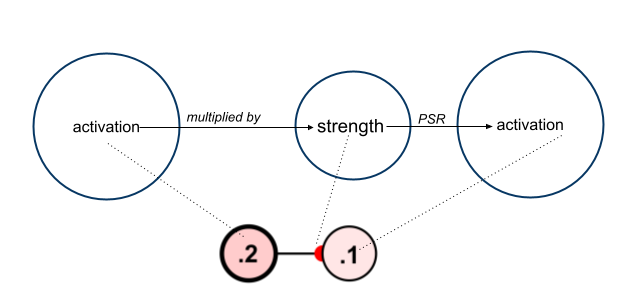
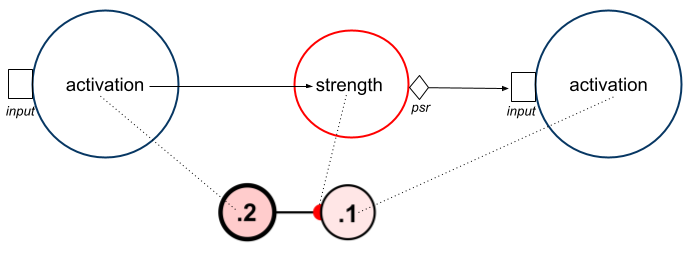
A pass on network update logic with feedback from Yulin and Sergio.
Making a new section to bring the intuitive stuff up front and improving the images and framing.

diff --git a/src/docs/network/updateLogic.md b/src/docs/network/updateLogic.md
@@ -1,20 +1,39 @@
 ---
-title: Update Logic
+title: Network Update
 layout: default
 parent: Networks
 has_children: false
-nav_order: 15
+nav_order: 2
 ---
 
-# Network Update Logic
+# How Network Updates Work
 
-When a network is open and the workspace is iterated, an **update algorithm** is repeatedly called, which is visible in the form of spreading activity in network's nodes and other changes. These changes have a complex logic that is described here. 
+When a network is open and the workspace is iterated, an **update algorithm** is repeatedly called, which is visible in the form of spreading activity in network's nodes and other changes. These changes have a complex logic that is described here.  This complexity stems from Simbrain's effort to support many configurations. This includes networks which mix free neurons and synapses, local learning rules, array-based computations, spiking networks, and more custom forms of update. 
 
-The complexity of the system stems from Simbrain's effort to support many configurations. This includes free neurons and synapses, local learning rules, array based computations, spiking networks, and even more custom forms of update. Most of this is supported in the GUI using a point and click interface.
+The next section gives a broad overview of update focusing on the case of free neurons and synapses. The rest of this document covers more specific topics and forms of update.
 
+# The Basic Idea
+
+The way information flows from one node to another via a weight provides a useful starting point for understanding how network updates work in Simbrain. In the simplest and easiest-to-understand case, activation in one node is multiplied by a weight strength, and the result is sent to the next node where it becomes the new activation. In the example below assume the weight strength is .5, so that the output is half the input.
+
+<img src="/assets/images/synapseRulesBasic.png" alt="synapse basics" style="width:600px;"/>
+
+There are several variables that play an important role in this process (especially when we consider more complicated cases), but that are not directly visible in Simbrain
+
+- **PSR**: (shown as a diamond above). This is the "output" of a synapse. Usually it is just source activation times weight. In the example above it is $$.1$$. However, sometimes the PSR varies over time in response to spikes.
+
+- **Input** (shown as open rectangles above). This is a kind of input buffer that accumulates inputs from other nodes (via PSRs) and via external [couplings](/docs/workspace/Couplings.html). This supports asynchronous or [buffered update](#buffered-update).
+
+<img src="/assets/images/multipleSynapses.png" alt="summation" style="width:600px;"/>
+
+When multiple source nodes connect to a target node, the input to the target node is a summation of PSRs across the source nodes. In the example above, the target node accumulates PSRs from three other nodes. Since in this case there are no spike responders, the target input is a simple weighted sum. In this image we have also shown dotted lines feeding into each input, which emphasizes that information from external couplings can be part of the input to any neuron.
+
+All of these values can exist as arrays: activations, inputs, weight strengths, PSRs, etc. Generally speaking these are forms of **data**. In general we try to separate data structures from **rules** that act on these data structures, like update rules, learning rules, and spike responders.
+
+For the rest of these docs we move systematically through how network updates work, starting with the high-level structure of how "actions" are executed and then considering all the types of action and all the types of model that can be updated. 
 # Update actions
 
-At the top level each network iteration a sequence of actions is executed. Usually the default update action, `Buffered update`, is all that is executed, and all that is needed. However, custom actions can be added and update can be customized, either in the GUI, or for even more custom applications, in [scripts](../simulations).
+At each network iteration a sequence of actions is executed. Usually only one action is updated, the default update action, `Buffered update`. However, custom actions can be added and update can be customized, either in the GUI, or for even more custom applications, in [scripts](../simulations).
 
 Actions are set using a GUI that is largely the same as in [workspace update](../workspace/update.html). 
 
@@ -109,19 +128,8 @@ The same rules that operate on scalar data can operate on array data. All the pa
 
 # Synapses, Learning Rules, and Spike Responders
 
-Each synapse has a post synaptic response or PSR. The PSR is typically just source activation times weight. However, when spike responders are used, the PSR can be more complicated. The PSRs to an output node are summed and that is the "input" to update rule or "activation function" for a node (See book activation function chapter)
+Each synapse outputs a a post synaptic response or PSR. This is typically just source activation times weight. However, when spike responders are used, the PSR must react in a dynamical way to spiking events. Also, the synaptic strength can be updated via learning. To accomodate all this, the following structures are used:
 
-<!-- Synaptic inputs are a bit more complicated than weighted inputs as they attempt to capture some of the dynamics of real synapses in the brain. This type of input is meant specifically for translating action potentials (spikes) created when spiking neurons fire into a continuous value which can be interpreted by other neurons. (So this input type is not meaningful if the pre-synaptic neuron does not produce action potentials). Synaptic inputs perform a weighted sum over the post-synaptic responses of the incoming synapses, which are themselves governed by **spike responders**. More details can be found in the **spike responder** and **spiking neuron** documentation pages. The basic idea is that spikes are modeled as being instantaneous in time and spike responders generate a continuous value from this instantaneous one, for example producing a decaying stream of input to the post-synaptic neuron after a spike (as in the animated image above). -->
-
-
-Here is the basic case for how synapses work
-
-To accomodate all this, the following structure is used:
-<img src="/assets/images/synapseRulesBasic.png" alt="synapse basics" style="width:600px;"/>
-
-But it gets more complex. The same basic structure from aboe is used for synapses, but there is a bit more going on. This is based on the fact that synapse learn with learning rules, but also sometimes must react in a dynamical way to spiking events. However, in the default case all they are is weights that are multipled by pre-synaptic neuron activations.
-
-To accomodate all this, the following structure is used:
 <img src="/assets/images/synapseRulesFull.png" alt="synapse spike responder and learning rule" style="width:600px;"/>
 
 The synapse has two main intrinsic state variables: `psr` or post-synaptic-response, and `strength`. The strength is the classic weight value of a synapse. The `psr` is a variable that corresponds to the "output" of the synapse. In the basic case, the `psr` is just the source neuron activation for the synapse times the weight strength. In the case shown, if the weight strength is .5, then the psr is .2 * .5, and so on update the target synapse is set to .1. Often in a neural network this is all we have.
@@ -151,9 +159,7 @@ fun Neuron.update()
 		activation += synapse.psr
 ```
 
-Again PSR is our generic construct. The node’s net input is just the accumulated psr. That is then modified by act function. TODO: Show activation function working.
-
-<img src="/assets/images/multipleSynapses.png" alt="summation" style="width:300px;"/>
+<!-- Synaptic inputs are a bit more complicated than weighted inputs as they attempt to capture some of the dynamics of real synapses in the brain. This type of input is meant specifically for translating action potentials (spikes) created when spiking neurons fire into a continuous value which can be interpreted by other neurons. (So this input type is not meaningful if the pre-synaptic neuron does not produce action potentials). Synaptic inputs perform a weighted sum over the post-synaptic responses of the incoming synapses, which are themselves governed by **spike responders**. More details can be found in the **spike responder** and **spiking neuron** documentation pages. The basic idea is that spikes are modeled as being instantaneous in time and spike responders generate a continuous value from this instantaneous one, for example producing a decaying stream of input to the post-synaptic neuron after a spike (as in the animated image above). -->
 
 # Synapses, Learning Rules, and Spike Responders (array case)
 
@@ -163,7 +169,7 @@ The  same structure applies to [neuron arrays and weight matrices](arraysMatrice
 
 Thus, for a neuron array,  `update()` iterates through a fan-in of weight matrices, calling `updatePSR()` on each one, and then adding the resulting `psrMatrices` using vector addition to update the neuron's activations. This allows connectionist and spiking input arrays to feed to the same neuron array.
 
-Again we sum PSR's but now we are “summing PSR matrices” and then mutating them.
+Before we summed PSRs but now we are “summing PSR matrices” and then mutating them.
 
 
 # Continuous and Discrete Time Update
@@ -172,9 +178,9 @@ The network is updated from the [workspace](../workspace) or separately using it
 
 When the network is updated, a `time` variable is updated by adding a `time-step` to it. This updating time can be displayed in two ways, captured by a `time-type` parameter
 
-- Continuous: at each iteration time increases by a `time step` that can be set. Time is displayed in milliseconds. This is used when differential equations are numerically integrated. Generally speaking, the smaller the time-step, the more accurate the numerical integration. 
+- **Continuous**: at each iteration time increases by a `time step` that can be set. Time is displayed in milliseconds. This is used when differential equations are numerically integrated. Generally speaking, the smaller the time-step, the more accurate the numerical integration. 
 
-- Discrete: at each iteration time increases by 1. Time is displayed as “iterations” (in the underlying code the system is still updated by a time-step; but in this mode time is displayed by dividing the continuous time by the time-step.)
+- **Discrete**: at each iteration time increases by 1. Time is displayed as “iterations” (in the underlying code the system is still updated by a time-step; but in this mode time is displayed by dividing the continuous time by the time-step.)
 
 Neuron update rules are associated with a time type. Any time a single continuous update rule is used in a network, time is automatically changed to continuous. This can however be overridden by manually adjusting time type in the network properties.
 

diff --git a/src/docs/network/buildingBasics.md b/src/docs/network/buildingBasics.md
@@ -14,34 +14,33 @@ This page gives intuitions about the Simbrain interface. More details on the und
 
 Basic editing is straightforward, and most actions are meant to be intuitive relative to any standard draw program which involves selecting, copying, and editing with double clicks etc. For the most part you simply left click and drag the selected items (more on selection below). Network models can be lasso selected and the selection edited using the shift key to toggle selection.
 
-- Nudging: For fine tuning a selection, users can also use the arrow keys (with Shift held down) to "nudge" selected items. The nudge amount in pixels can be set in the network preferences dialog.
+- **Nudging**: For fine tuning a selection, users can also use the arrow keys (with Shift held down) to "nudge" selected items. The nudge amount in pixels can be set in the network preferences dialog.
 
-- Zooming: To zoom use the mouse-wheel or the pinch-to-zoom gesture on trackpads, or the toolbar buttons, which include zoom to fit (fit everything on the page automatically) or reset, which places the zoom level at 1:1. Auto-zoom mode makes things always zoom to fit.
+- **Zooming**: To zoom use the mouse-wheel or the pinch-to-zoom gesture on trackpads, or the toolbar buttons, which include zoom to fit (fit everything on the page automatically) or reset, which places the zoom level at 1:1. Auto-zoom mode makes things always zoom to fit.
 
-- Panning: To pan press the command /ctrl key while left-clicking and dragging. Note that by default auto-zoom is turned on; if you plan to zoom in and pan a lot it should be turned off by dclicking on the auto-zoom icon. 
+- **Panning**: To pan press the command /ctrl key while left-clicking and dragging. Note that by default auto-zoom is turned on; if you plan to zoom in and pan a lot it should be turned off by dclicking on the auto-zoom icon. 
 
 # Graphical and Color Conventions
 
 Most graphical and color conventions can be customized using the [preference dialog](preferences). Neuron, synapse, neuron array, and other color conventions are discussed on the doc pages for those objects.
 
-
 # Creating Objects
 
 Primarily nodes are discussed here, but similar ideas apply for text objects, neuron groups, and other Simbrain objects. 
 
-- Creating a node: Nodes are created by pressing "P" or by pressing the new node button  in the toolbar. Any new nodes will be created at the last position clicked on-screen.
+- **Creating a node**: Nodes are created by pressing "P" or by pressing the new node button  in the toolbar. Any new nodes will be created at the last position clicked on-screen.
 
-- Creating a line of nodes: Repeatedly pressing "P" or the new node button results in a line of nodes being created beginning at the last clicked position.
+- **Creating a line of nodes**: Repeatedly pressing "P" or the new node button results in a line of nodes being created beginning at the last clicked position.
  
-- Creating specific types of neurons: By default, new nodes are linear. The default node type cannot currently be changed, though this is planned. To create a node of a specific type, simply create a new node, double click or right click the node and edit (or click command-E). From there one can select any neuron type in Simbrain from a dropdown menu. The same thing can be done for groups of nodes: select them all and double clcik on one
+- **Creating specific types of neurons**: By default, new nodes are linear. The default node type cannot currently be changed, though this is planned. To create a node of a specific type, simply create a new node, double click or right click the node and edit (or click command-E). From there one can select any neuron type in Simbrain from a dropdown menu. The same thing can be done for groups of nodes**: select them all and double clcik on one
  
-- Add neurons dialog: To create many nodes at once one can go to `Insert > Add Neurons` and instantly create an arbitrary number of neurons specified in the `Add Neurons` window. You can determine what type of neurons will be created (this part of the dialog is the same as the neuron dialog) and how they will be layed out (see layouts). There is also a checkbox which will make these neurons be created as a group.
+- **Add neurons dialog**: To create many nodes at once one can go to `Insert > Add Neurons` and instantly create an arbitrary number of neurons specified in the `Add Neurons` window. You can determine what type of neurons will be created (this part of the dialog is the same as the neuron dialog) and how they will be layed out (see layouts). There is also a checkbox which will make these neurons be created as a group.
  
-- Copy / Paste / Duplicate: Create a node, set its type (as specified above), and then copy and paste or duplicate (command-D) repeatedly.
+- **Copy / Paste / Duplicate**: Create a node, set its type (as specified above), and then copy and paste or duplicate (command-D) repeatedly.
  
-- Creating subnetworks or groups of nodes: Subnets are created using *Insert > Add Network*. Subnetworks and small groups of neurons can be created, copied, and repeatedly pasted to quickly create many sets of similar elements. Neuron groups can be created using the G command; existing free neurons can be added to a network with Shift-G.
+- **Creating subnetworks or groups of nodes**: Subnets are created using *Insert > Add Network*. Subnetworks and small groups of neurons can be created, copied, and repeatedly pasted to quickly create many sets of similar elements. Neuron groups can be created using the G command; existing free neurons can be added to a network with Shift-G.
  
-- Creating synapses or synapse groups: See the connections documentation.
+- **Creating synapses or synapse groups**: See the connections documentation.
 
 # Selecting Objects
 
@@ -49,15 +48,15 @@ Neurons, weights, groups, and textboxes can be selected so that operations can b
 
 Note that most selection operations must be done in selection mode, the default mode, which is entered by pressing "S" or the selection button.
 
-- Lasso: Left-click and drag the lasso around screen items you want to select. As items are selected a box appears around them.
+- **Lasso**: Left-click and drag the lasso around screen items you want to select. As items are selected a box appears around them.
 
-- Lassoing weights: It can be hard to click on individual weights directly, so they can also be selected by dragging the lasso across the line associated with a weight, which is much easier.
+- **Lassoing weights**: It can be hard to click on individual weights directly, so they can also be selected by dragging the lasso across the line associated with a weight, which is much easier.
 
-- Single click: Single left-click on nodes and weights to select individual screen items. Zooming in on items can facilitate this.
+- **Single click**: Single left-click on nodes and weights to select individual screen items. Zooming in on items can facilitate this.
 
-- Shift key : Once some items are selected, you can hold down the shift key to add more items to your selection. Hold down Shift while lassoing to add or remove groups items; hold down Shift while single-clicking to add or remove single items.
+- **Shift key**: Once some items are selected, you can hold down the shift key to add more items to your selection. Hold down Shift while lassoing to add or remove groups items; hold down Shift while single-clicking to add or remove single items.
 
-- Key Shortcuts : "n" to select all nodes; "w" to select all weights; "a" to select nodes and weights. These are super useful! (Also, once selected: "r" to randomize, "c" to clear, and arrows to increment activation.)
+- **Key Shortcuts**: "n" to select all nodes; "w" to select all weights; "a" to select nodes and weights. These are super useful! (Also, once selected: "r" to randomize, "c" to clear, and arrows to increment activation.)
 
 # Source and Target Objects
 

diff --git a/src/docs/network/index.md b/src/docs/network/index.md
@@ -9,7 +9,7 @@ nav_order: 15
 
 The network component of Simbrain represents a simulated neural circuit. For a quick dive in see the [quick start](../quickstart.html) or [this video](https://www.youtube.com/watch?v=dvJvY1zVQUE), which contains a series of links to short clips describing common network operations (adding neurons, connecting neurons, editing neuron groups, etc.). 
 
-Networks contain a variety of objects (we call them "network models"), including free-floating neurons and synapses, but also neuron arrays and weight matrices for array-based network, and a wide array of other more complex structures. This page contains a brief overview of the main object types. The Simbrain philosophy is to allow for arbitrary combinations of models. Most objects can be linked to one another with different types of adapters. By combining these together you can create indefinitely many different kinds of networks. Many tools exist for organizing, arranging, training, and linking these objects together.
+Networks contain a variety of objects ("network models"), including free-floating neurons and synapses, but also neuron arrays and weight matrices for array-based networks, and other more complex structures. This page contains a brief overview of the main object types.  Most objects can be linked to one another with synapses, synapse groups, or weight matrices. The Simbrain philosophy is to allow for arbitrary combinations of network models. Many tools and utilities exist for organizing, arranging, and training these linked network models.
 
 # Main Object Types
 
@@ -27,6 +27,8 @@ Free neurons and weights can be aggregated in various ways but are moved and adj
 <img src="/assets/images/neuronGroup.png" alt="neuron group" style="width:300px;"/>
 
 <img src="/assets/images/neuronCollections.png" alt="neuron colletions" style="width:300px;"/>
+
+Note that neuron collections (like supervised models) are "transient wrappers". If you delete them the underlying objects remain in place. They have green interaction boxes. In cases where the surrounded objects are dependent on the group they are part of a yellow interactio box is used.
 
 ## Neuron Arrays and Weight matrices
 

diff --git a/src/docs/workspace/couplings.md b/src/docs/workspace/couplings.md
@@ -32,6 +32,8 @@ An attribute is any part of a component which has a value that may be sent to or
 
 Most windows in Simbrain (i.e. workspace [components](components.html)) are wrappers around other objects (e.g. neurons), whose values can be linked to one another. These values are [attributes](couplings.html#attributes) and can (for instance) include such values as the activation of a given neuron in the workspace, or a value of a line on a time-series. Attributes can be thought of as the "hooks" or "anchor points" that make up couplings, and couplings represent the uni-directional data flow between these hooks. For example, a simulation might involve coupling neurons whose neurons are producers to a bar chart whose bars are consumers (to see this, try bar chart test in the script menu).
 
+When coupling to neurons it is often suggested to use **add inputs**, because each node accumulates input values (see [network update](/docs/network/updateLogic)). Coupling into an activation overwrites the activation, and is not additive, so it is not reccomended. However coupling _from_ an activation (for example when using plots) is fine.
+
 Each attribute has a data type, as described above: currently scalar (double), vector (array of doubles), and String.
 
 The attributes in a component can be viewed in the coupling manager dialog.
@@ -78,7 +80,6 @@ These vectors can get huge! Tens of thousands of neuron activations! As with sca
 - A coupling from a neuron groups' activations to most types of chart.
 - A coupling from a neuron group to a data world. On each iteration of the workspace the current activations of the neuron group are used to set the value of the current row of the data world. In this way activations can be logged and viewed in realtime.
 - A coupling from a neuron group's activation to text in a [Text World](../worlds/textworld.html). For example, when a vector is close enough to a specific vector (in a vector space) make the word "hello" appear in the text world.
-
 
 # Coupling Manager
 

diff --git a/src/docs/network/networkToolbar.md b/src/docs/network/networkToolbar.md
@@ -3,7 +3,7 @@ title: Network Toolbar
 layout: default
 parent: Networks
 has_children: false
-nav_order: 3
+nav_order: 4
 ---
 
 # Toolbars

diff --git a/src/docs/network/networkMenu.md b/src/docs/network/networkMenu.md
@@ -3,7 +3,7 @@ title: Network Menu
 layout: default
 parent: Networks
 has_children: false
-nav_order: 2
+nav_order: 3
 ---
 
 # Menus
